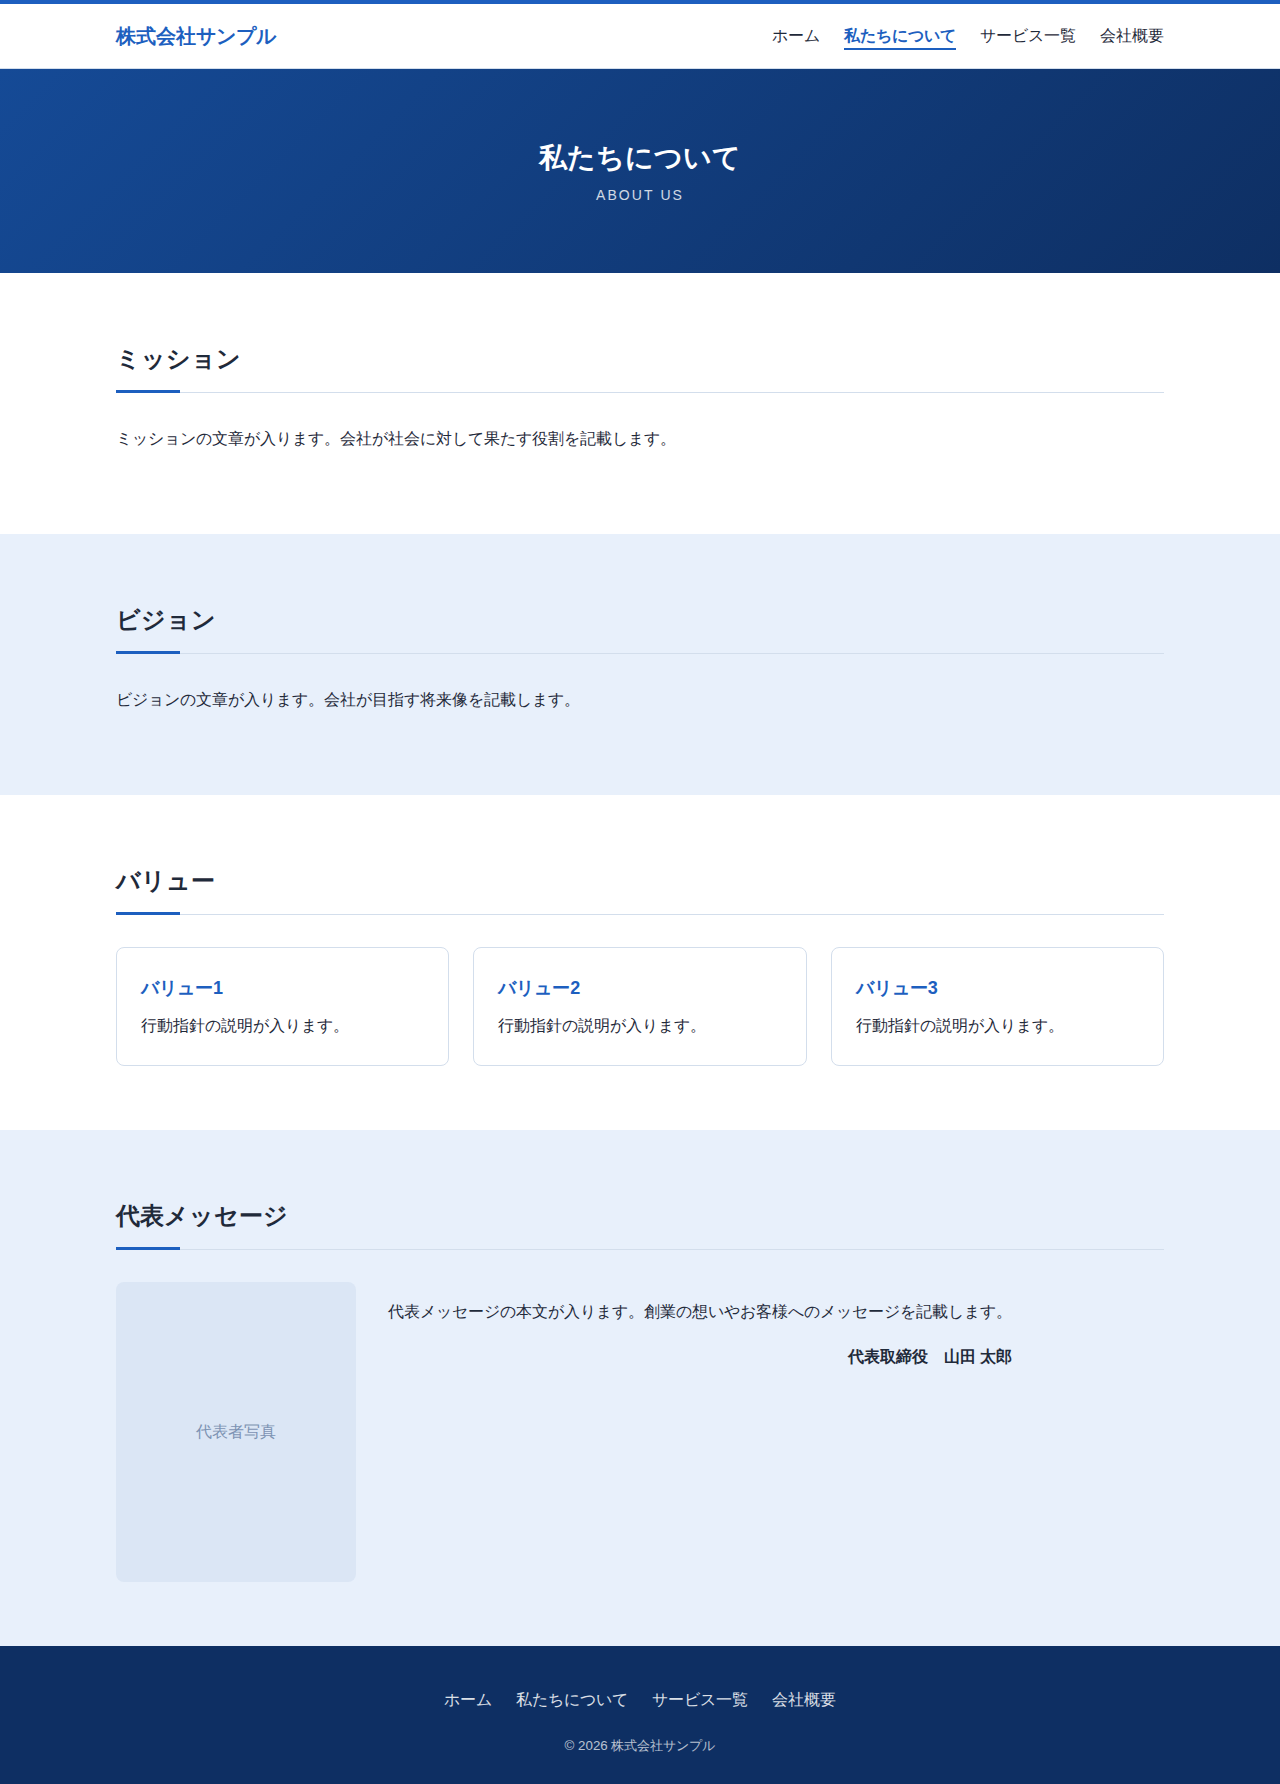
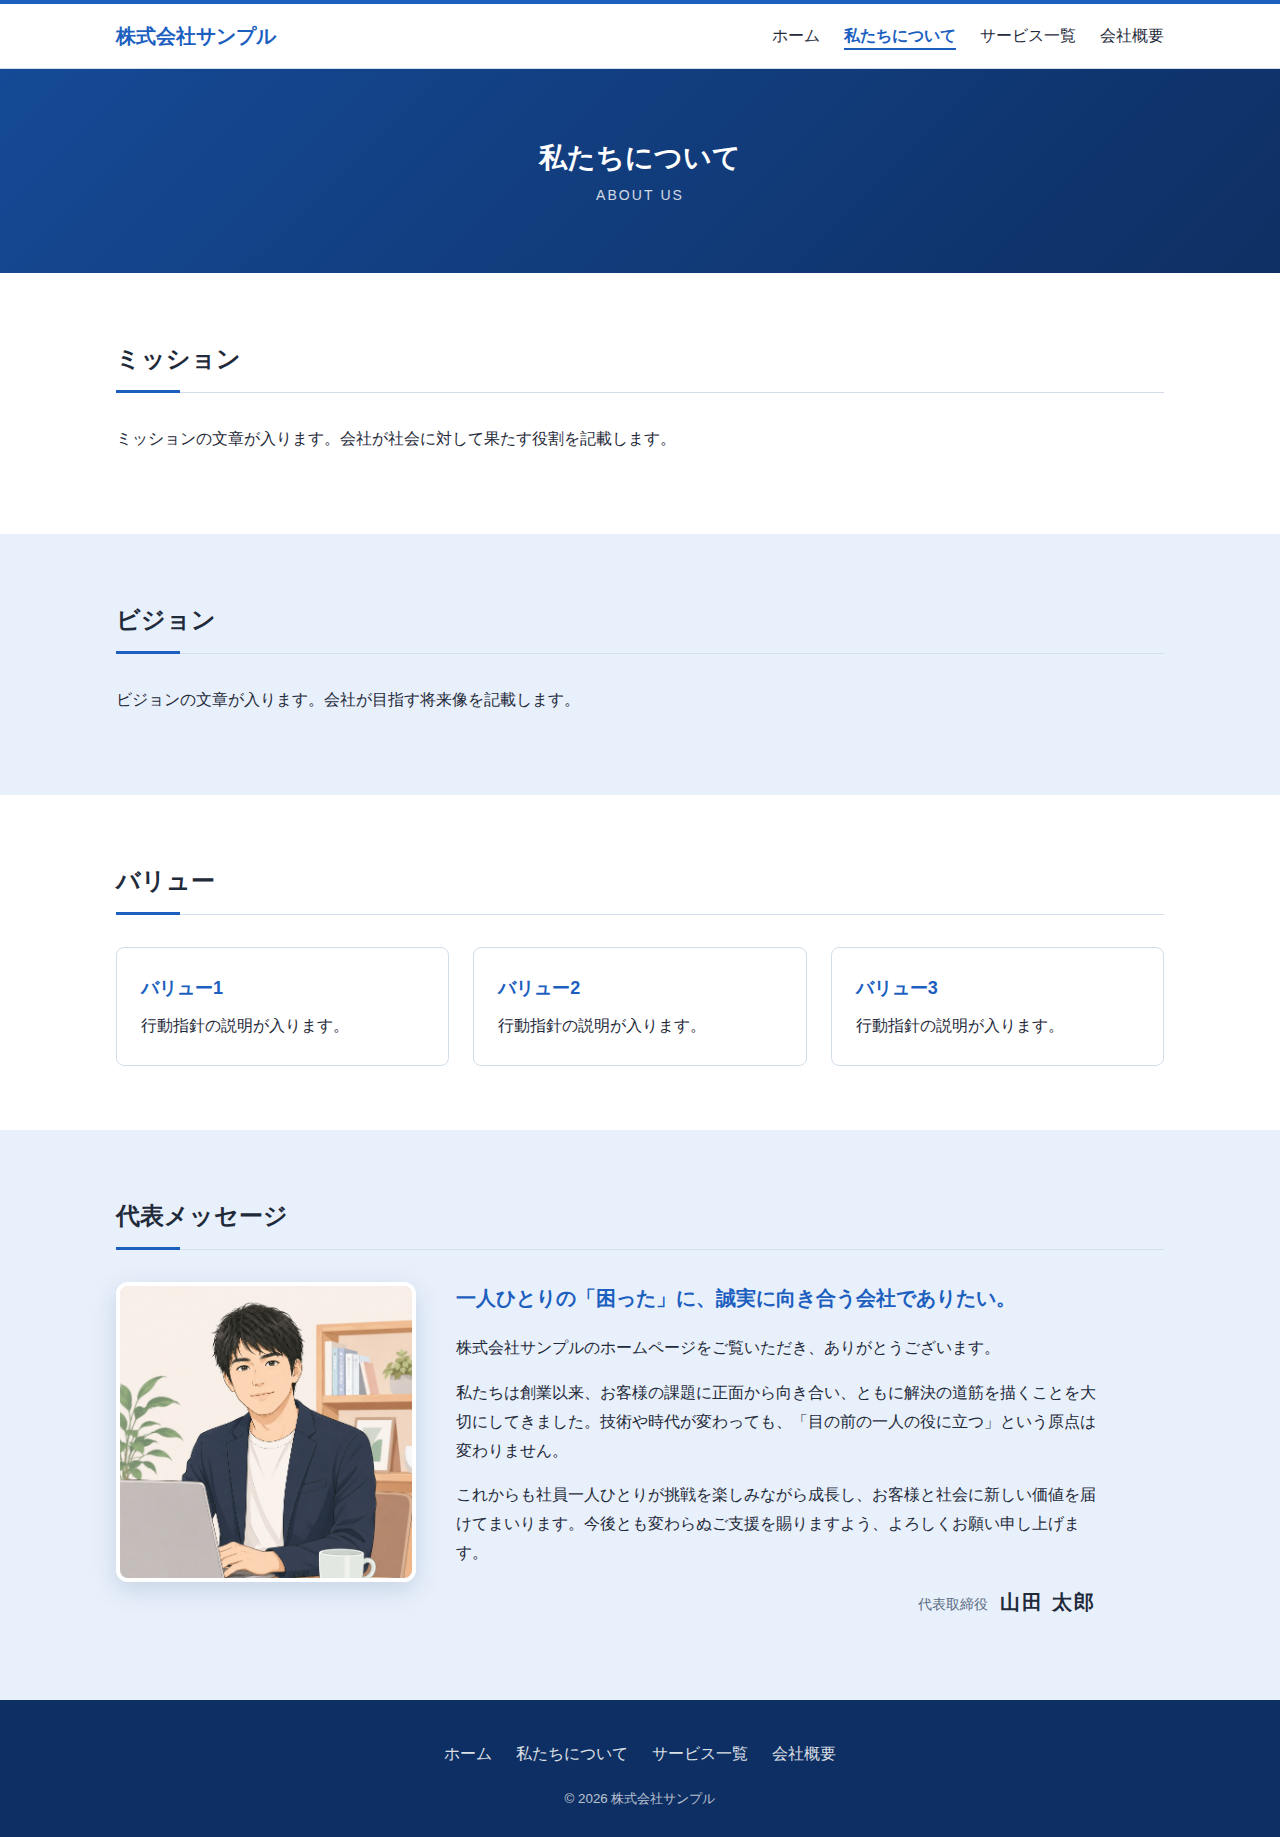
私たちについてページの代表メッセージにプロフィール画像と本文を追加
- images/profile.jpg を追加し、代表者写真の仮枠を差し替え
- 代表メッセージの本文・署名を作成
- 画像とメッセージのレイアウトを調整（スマホでは縦並び）
- output/のスクリーンショットを更新

Claude-Session: https://claude.ai/code/session_0121JXehrpmSaGAZjrSQGaG9

diff --git a/about.html b/about.html
@@ -73,14 +73,22 @@
     </section>
 
     <!-- 代表メッセージ -->
-    <section class="section section-alt">
+    <section class="section section-alt" id="message">
       <div class="container">
         <h2 class="section-title">代表メッセージ</h2>
         <div class="message">
-          <div class="message-photo placeholder">代表者写真</div>
+          <figure class="message-photo">
+            <img src="images/profile.jpg" alt="代表取締役 山田 太郎のプロフィール画像" width="1254" height="1254" loading="lazy">
+          </figure>
           <div class="message-body">
-            <p>代表メッセージの本文が入ります。創業の想いやお客様へのメッセージを記載します。</p>
-            <p class="message-sign">代表取締役　山田 太郎</p>
+            <p class="message-lead">一人ひとりの「困った」に、誠実に向き合う会社でありたい。</p>
+            <p>株式会社サンプルのホームページをご覧いただき、ありがとうございます。</p>
+            <p>私たちは創業以来、お客様の課題に正面から向き合い、ともに解決の道筋を描くことを大切にしてきました。技術や時代が変わっても、「目の前の一人の役に立つ」という原点は変わりません。</p>
+            <p>これからも社員一人ひとりが挑戦を楽しみながら成長し、お客様と社会に新しい価値を届けてまいります。今後とも変わらぬご支援を賜りますよう、よろしくお願い申し上げます。</p>
+            <p class="message-sign">
+              <span class="message-sign-title">代表取締役</span>
+              <span class="message-sign-name">山田 太郎</span>
+            </p>
           </div>
         </div>
       </div>

diff --git a/css/style.css b/css/style.css
@@ -335,21 +335,62 @@ ol {
 /* ---------- 代表メッセージ ---------- */
 .message {
   display: flex;
-  gap: 32px;
+  align-items: flex-start;
+  gap: 40px;
 }
 
 .message-body {
   min-width: 0;
+  max-width: 40em;
+}
+
+.message-body p {
+  margin: 0 0 1em;
 }
 
 .message-photo {
-  flex: 0 0 240px;
-  height: 300px;
+  flex: 0 0 300px;
+  margin: 0;
+  overflow: hidden;
+  border: 4px solid var(--color-surface);
+  border-radius: 12px;
+  box-shadow: 0 8px 24px rgba(14, 47, 99, 0.15);
+}
+
+.message-photo img {
+  display: block;
+  width: 100%;
+  height: auto;
+  aspect-ratio: 1 / 1;
+  object-fit: cover;
+}
+
+.message-lead {
+  font-size: 1.25rem;
+  font-weight: bold;
+  line-height: 1.6;
+  color: var(--color-primary);
+  text-wrap: balance;
+  word-break: auto-phrase;
 }
 
 .message-sign {
+  display: flex;
+  justify-content: flex-end;
+  align-items: baseline;
+  gap: 12px;
+  margin-top: 1.5em;
+}
+
+.message-sign-title {
+  font-size: 0.875rem;
+  color: var(--color-text-muted);
+}
+
+.message-sign-name {
+  font-size: 1.25rem;
   font-weight: bold;
-  text-align: right;
+  letter-spacing: 0.1em;
 }
 
 /* ---------- サービス詳細 ---------- */
@@ -518,10 +559,20 @@ ol {
     flex-direction: column;
   }
 
+  .message {
+    align-items: stretch;
+    gap: 24px;
+  }
+
   .message-photo,
   .service-image {
     flex-basis: auto;
     width: 100%;
+  }
+
+  .message-photo {
+    max-width: 280px;
+    margin-inline: auto;
   }
 
   .news-list li {

diff --git a/README.md b/README.md
@@ -20,6 +20,8 @@
 ├── about.html
 ├── services.html
 ├── company.html
+├── images/
+│   └── profile.jpg # 代表者プロフィール画像
 ├── css/
 │   └── style.css   # 共通スタイル（仮）
 └── js/
